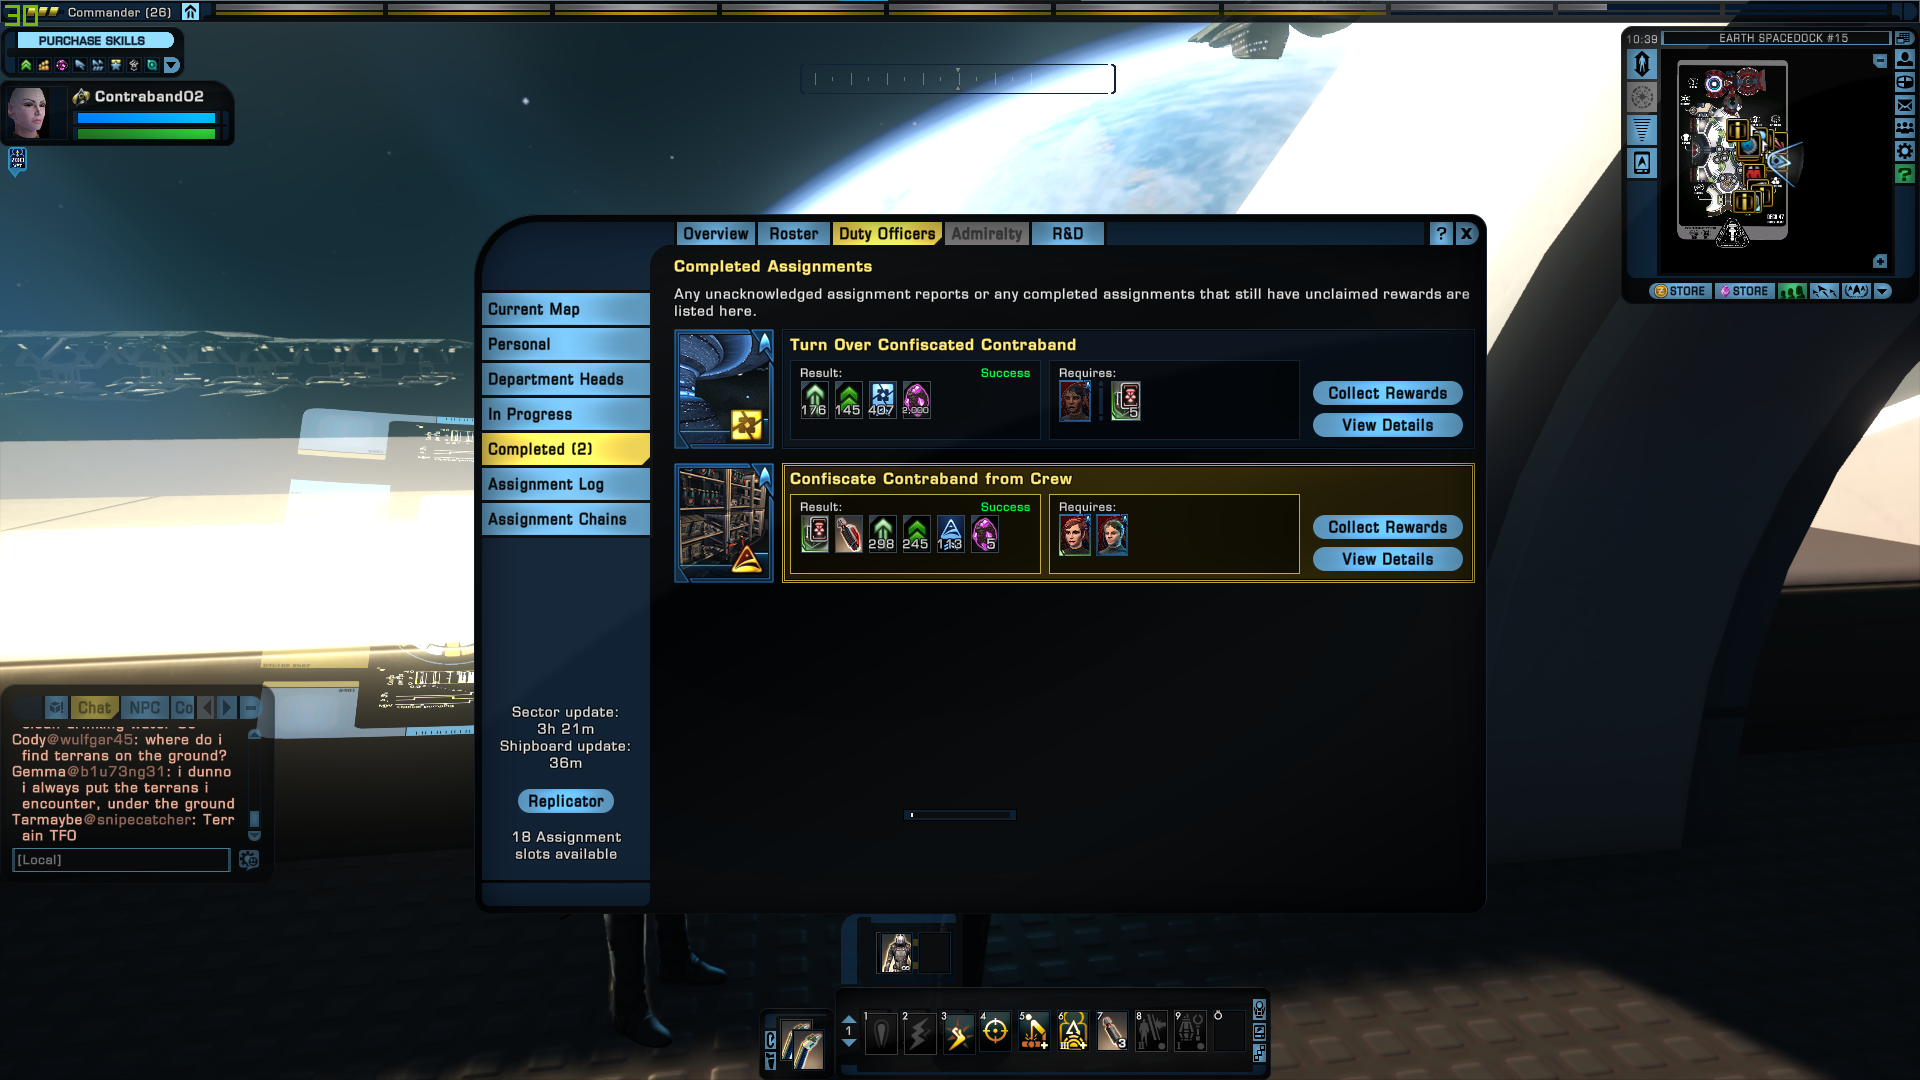
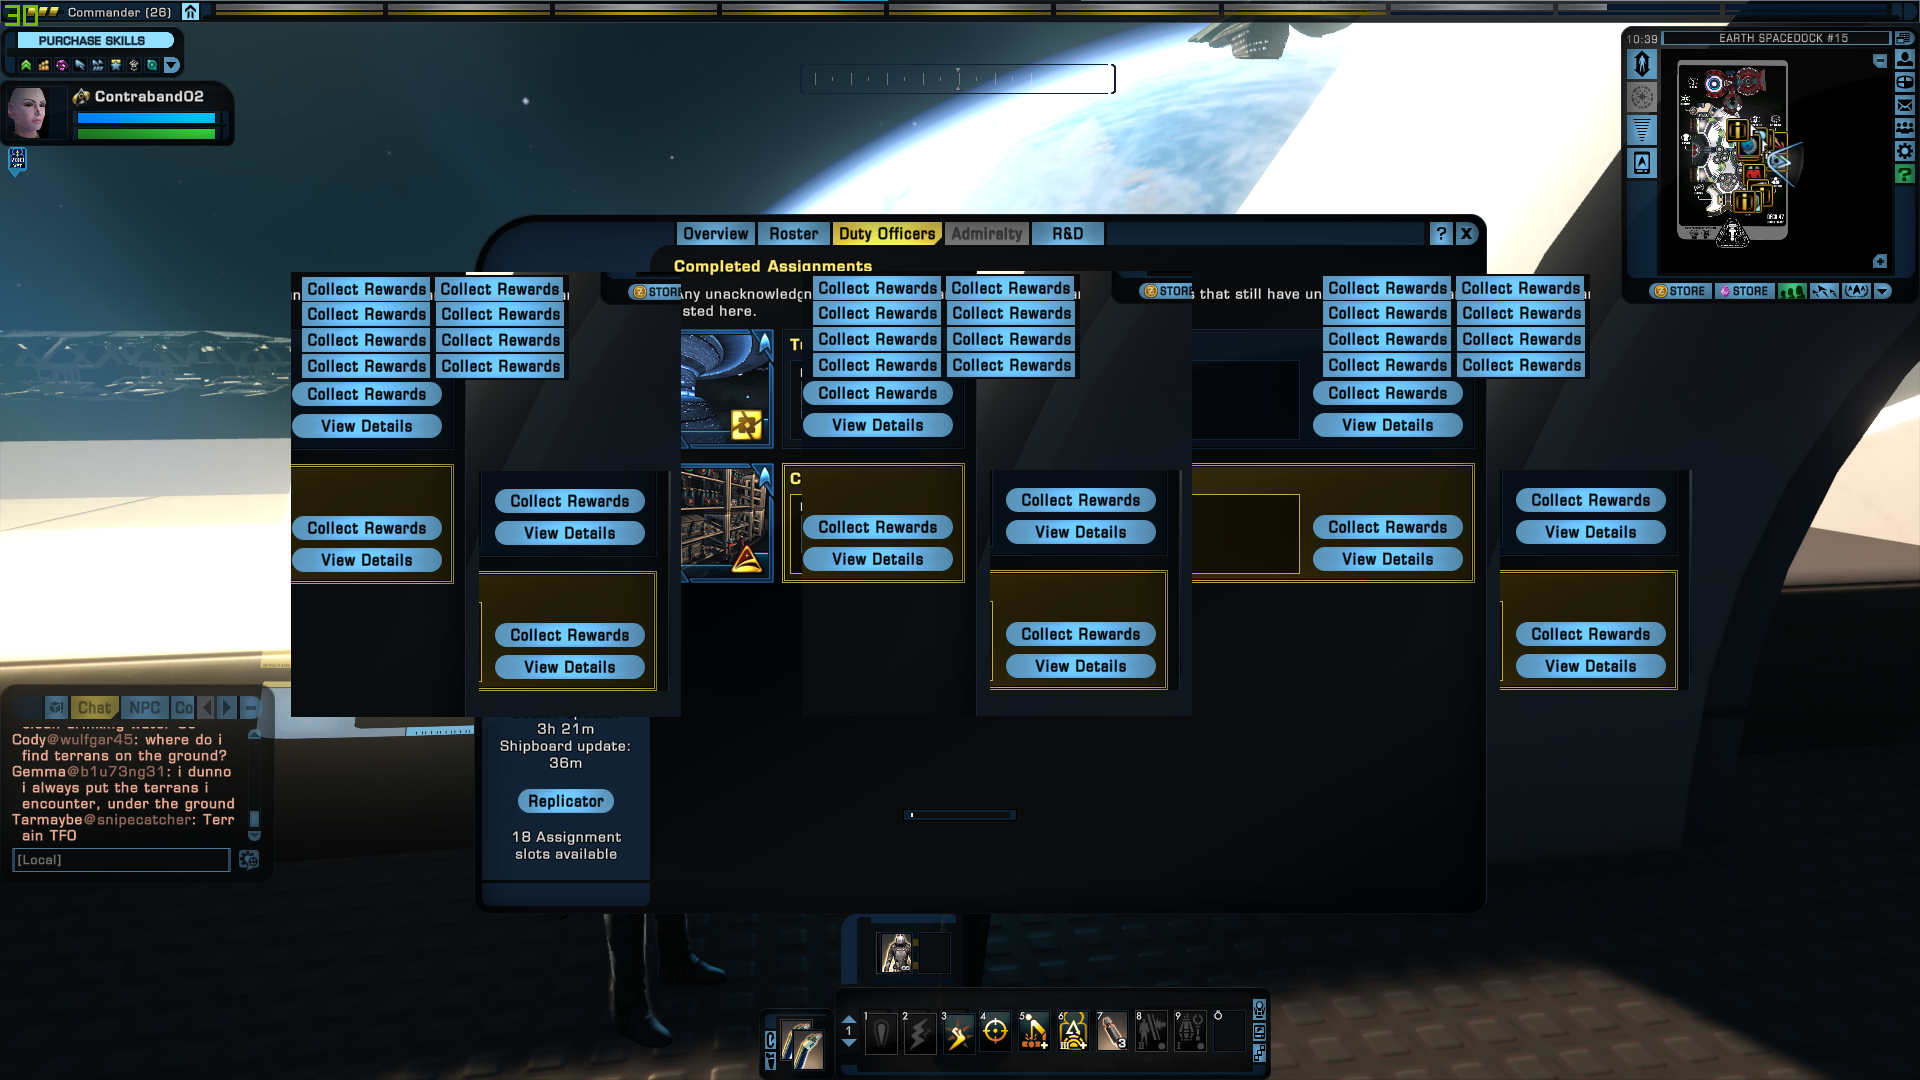
added auto scaling, further experiments

diff --git a/AutoFarmer/AutoFarmerTests/AutoFarmerTests.cs b/AutoFarmer/AutoFarmerTests/AutoFarmerTests.cs
@@ -14,53 +14,52 @@ namespace AutoFarmerTests
 	[TestClass]
 	public class AutoFarmerTests
 	{
-		[TestMethod]
-		public void TestMethod1()
-		{
-			Config.FromJsonFile(@"C:\Users\toti9\Documents\GitHub\AutoFarmer\AutoFarmer\AutoFarmer\configs\config.json");
+		//[TestMethod]
+		//public void TestMethod1()
+		//{
+		//	Config.FromJsonFile(@"C:\Users\toti9\Documents\GitHub\AutoFarmer\AutoFarmer\AutoFarmer\configs\config.json");
 
-			MatchCondition c = new MatchCondition() { SearchRectangleName = "TestRectangle1", TemplateName = "TestTemplate1" };
+		//	MatchCondition c = new MatchCondition() { SearchRectangleName = "TestRectangle1", TemplateName = "TestTemplate1", MaximumOccurrence = 2 };
 
-			//var sr = new SearchRectangle() { X = 210, Y = 712, W = 28, H = 14 };// 392 ~ 3.5 = 232.24kk
-			//var sr = new SearchRectangle() { X = 210, Y = 712, W = 280, H = 140 };// 39200 ~ 246= 330.42kk
 			var sr = new SearchRectangle() { X = 10, Y = 10, W = 100, H = 100 };// 39200 ~ 246= 330.42kk
+		//	//var sr = new SearchRectangle() { X = 210, Y = 712, W = 280, H = 140 };// 39200 ~ 246= 330.42kk
+		//	var sr = new SearchRectangle() { X = 1325, Y = 383, W = 100, H = 20 };// 39200 ~ 246= 330.42kk
 
-			sr.Init();
 
-			var srs = new Dictionary<string, SearchRectangle> { { "TestRectangle1", sr } };
+		//	var srs = new Dictionary<string, SearchRectangle> { { "TestRectangle1", sr } };
 
 			ImageMatchFinder.Instance = JsonConvert.DeserializeObject<ImageMatchFinder>(File.ReadAllText(Config.Instance.ImageMatchFinderConfigPath));
 
-			var t = new ImageMatchTemplate() { Name = "TestTemplate1", Bitmap = ImageFactory.ConvertAndScaleBitmap(Properties.Resources.characterSelector1Source), SearchRectangles = srs };
-			var ts = new List<ImageMatchTemplate> { t };
+		//	var t = new ImageMatchTemplate() { Name = "TestTemplate1", Bitmap = ImageFactory.ConvertAndScaleBitmap(Properties.Resources.assignmentsCompleted), SearchRectangles = srs };
+		//	var ts = new List<ImageMatchTemplate> { t };
 
-			ImageMatchFinder.Instance.Templates = ts;
+		//	ImageMatchFinder.Instance.Templates = ts;
 
-			var points = ImageMatchFinder.FindClickPointForTemplate(c, ImageFactory.ConvertAndScaleBitmap(Properties.Resources.characterSelector1Source, ImageMatchFinder.Instance.Scale), 0.98f);
+		//	var points = ImageMatchFinder.FindClickPointForTemplate(c, ImageFactory.ConvertAndScaleBitmap(Properties.Resources.assignmentsCompleted), 0.99f);
 
-			var expectedPoint = new SerializablePoint() { X = 480, Y = 843 };
+		//	var expectedPoint = new SerializablePoint() { X = 480, Y = 843 };
 
-			Assert.AreEqual(1, points.Count);
-			Assert.AreEqual(expectedPoint.X, points[0].X, 3);
-			Assert.AreEqual(expectedPoint.Y, points[0].Y, 3);
-		}
+		//	Assert.AreEqual(2, points.Count);
+		//	Assert.AreEqual(expectedPoint.X, points[0].X, 3);
+		//	Assert.AreEqual(expectedPoint.Y, points[0].Y, 3);
+		//}
 
 		[TestMethod]
 		public void TestMethod2v1()
 		{
-			TestMethod2Core(0.98f, "TestTemplate2v1", "TestRectangle2v1", NamedSearchArea.Right);
+			TestMethod2Core(0.99f, "TestTemplate2v1", "TestRectangle2v1", NamedSearchArea.Right);
 		}
 
 		[TestMethod]
 		public void TestMethod2v2()
 		{
-			TestMethod2Core(0.98f, "TestTemplate2v2", "TestRectangle2v2", NamedSearchArea.Left);
+			TestMethod2Core(0.99f, "TestTemplate2v2", "TestRectangle2v2", NamedSearchArea.Left);
 		}
 
 		[TestMethod]
 		public void TestMethod2v5()
 		{
-			TestMethod2Core(0.98f, "TestTemplate2v5", "TestRectangle2v5");
+			TestMethod2Core(0.99f, "TestTemplate2v5", "TestRectangle2v5");
 		}
 
 		private void TestMethod2Core(float similiarityThreshold, string templateName, string searchRectangleName, params NamedSearchArea[] namedSearchAreas)
@@ -69,9 +68,10 @@ namespace AutoFarmerTests
 
 			Dictionary<MatchOrderBy, MatchOrderLike> o = new Dictionary<MatchOrderBy, MatchOrderLike>() { { MatchOrderBy.Y, MatchOrderLike.Descending } };
 
-			MatchCondition c = new MatchCondition() { SearchRectangleName = searchRectangleName, TemplateName = templateName, MaximumOccurrence = 2, OrderBy = o };
+			MatchCondition c = new MatchCondition() { SearchRectangleName = searchRectangleName, TemplateName = templateName, MaximumOccurrence = 4, OrderBy = o };
 
-			var sr = new SearchRectangle() { X = 1322, Y = 383, W = 132, H = 20, NamedSearchAreas = namedSearchAreas }; // 2640 ~ 21.1 = 259.44kk
+			var sr = new SearchRectangle() { X = 1312, Y = 271, W = 390, H = 445, NamedSearchAreas = namedSearchAreas };
+			
 			sr.Init();
 
 			var srs = new Dictionary<string, SearchRectangle> { { searchRectangleName, sr } };
@@ -85,7 +85,7 @@ namespace AutoFarmerTests
 
 			Stopwatch stopwatch = new Stopwatch();
 			stopwatch.Start();
-			var points = ImageMatchFinder.FindClickPointForTemplate(c, ImageFactory.ConvertAndScaleBitmap(Properties.Resources.assignmentsCompleted, ImageMatchFinder.Instance.Scale), similiarityThreshold);
+			var points = ImageMatchFinder.FindClickPointForTemplate(c, ImageFactory.ConvertAndScaleBitmap(Properties.Resources.assignmentsCompleted), similiarityThreshold);
 			stopwatch.Stop();
 
 			Console.WriteLine($"Elapsed: {stopwatch.ElapsedMilliseconds}");
@@ -94,10 +94,10 @@ namespace AutoFarmerTests
 			var expectedPoint2 = new SerializablePoint() { X = 1388, Y = 527 };
 
 			Assert.AreEqual(2, points.Count);
-			Assert.AreEqual(expectedPoint1.X, points[1].X, 2 / ImageMatchFinder.Instance.Scale);
-			Assert.AreEqual(expectedPoint1.Y, points[1].Y, 2 / ImageMatchFinder.Instance.Scale);
-			Assert.AreEqual(expectedPoint2.X, points[0].X, 2 / ImageMatchFinder.Instance.Scale);
-			Assert.AreEqual(expectedPoint2.Y, points[0].Y, 2 / ImageMatchFinder.Instance.Scale);
+			Assert.AreEqual(expectedPoint1.X, points[1].X, 5);
+			Assert.AreEqual(expectedPoint1.Y, points[1].Y, 5);
+			Assert.AreEqual(expectedPoint2.X, points[0].X, 5);
+			Assert.AreEqual(expectedPoint2.Y, points[0].Y, 5);
 		}
 
 		[TestMethod]

diff --git a/AutoFarmer/AutoFarmer/Models/ImageMatching/ImageMatchFinder.cs b/AutoFarmer/AutoFarmer/Models/ImageMatching/ImageMatchFinder.cs
@@ -1,13 +1,11 @@
 using AForge.Imaging;
 using AutoFarmer.Models.GraphNamespace;
 using Newtonsoft.Json;
-using System;
 using System.Collections.Generic;
 using System.Drawing;
 using System.Drawing.Imaging;
 using System.IO;
 using System.Linq;
-using System.Text.RegularExpressions;
 
 namespace AutoFarmer.Models.ImageMatching
 {
@@ -15,7 +13,9 @@ namespace AutoFarmer.Models.ImageMatching
 	{
 		private static readonly PerformanceMonitor _performanceMonitor = new PerformanceMonitor();
 
-		public double Scale { get; set; }
+		public int MaximumSearchRectangleSizeForUnscaledSearch { get; set; }
+
+		public float SimiliarityThresholdCorrectionOnScaling { get; set; }
 
 		public float DefaultMaximumSimiliarityThreshold { get; set; }
 
@@ -37,9 +37,9 @@ namespace AutoFarmer.Models.ImageMatching
 			}
 		}
 
-		public static List<SerializablePoint> FindClickPointForTemplate(MatchCondition condition, Bitmap scaledSource, float similiarityThreshold)
+		public static List<SerializablePoint> FindClickPointForTemplate(MatchCondition condition, Bitmap source, float similiarityThreshold)
 		{
-			var matchResult = CalculateMatches(scaledSource, condition, similiarityThreshold);
+			var matchResult = CalculateMatches(source, condition, similiarityThreshold);
 
 			Logger.GraphicalLog(matchResult, condition.TemplateName, condition.SearchRectangleName);
 
@@ -56,12 +56,18 @@ namespace AutoFarmer.Models.ImageMatching
 			return OrderResults(matchResult.Matches.Select(m => m.ClickPoint), condition.OrderBy);
 		}
 
-		private static ImageMatchResult CalculateMatches(Bitmap scaledSource, MatchCondition condition, float similiarityThreshold)
+		private static ImageMatchResult CalculateMatches(Bitmap source, MatchCondition condition, float similiarityThreshold)
 		{
-			var template = Instance.Templates.First(t => t.Name == condition.TemplateName);
-			var scaledTemplate = ImageFactory.ConvertAndScaleBitmap(template.Bitmap, Instance.Scale);
+			var template = Instance.Templates.Single(t => t.Name == condition.TemplateName);
 			var searchRectangle = template.SearchRectangles[condition.SearchRectangleName];
-			var scaledSearchRectangle = searchRectangle.Scale(Instance.Scale);
+
+			var scale = searchRectangle.SizeInSquarePixel > Instance.MaximumSearchRectangleSizeForUnscaledSearch ? 0.5 : 1;
+			var correctedSimiliarityThreshold = scale == 0.5 ? similiarityThreshold - Instance.SimiliarityThresholdCorrectionOnScaling : similiarityThreshold;
+
+			var scaledSource = ImageFactory.ConvertAndScaleBitmap(source, scale);
+
+			var scaledTemplate = ImageFactory.ConvertAndScaleBitmap(template.Bitmap, scale);
+			var scaledSearchRectangle = searchRectangle.Scale(scale);
 			var scaledSearchImage = CropTemplateImage(scaledTemplate, scaledSearchRectangle);
 
 			var result = new ImageMatchResult()
@@ -76,7 +82,7 @@ namespace AutoFarmer.Models.ImageMatching
 
 			foreach (var searchArea in result.SearchAreas)
 			{
-				result.Matches.AddRange(CollectMatches(scaledSource, scaledSearchImage, scaledSearchRectangle.RelativeClickPoint, similiarityThreshold, condition.SearchRectangleName, condition.TemplateName, searchArea));
+				result.Matches.AddRange(CollectMatches(scaledSource, scaledSearchImage, scaledSearchRectangle.RelativeClickPoint, correctedSimiliarityThreshold, condition.SearchRectangleName, condition.TemplateName, scale, searchArea));
 
 				if (result.Matches.Count > condition.MaximumOccurrence && !(Config.Instance.GraphicalLogging && Config.Instance.FileLogging)) break;
 			}
@@ -85,7 +91,7 @@ namespace AutoFarmer.Models.ImageMatching
 			{
 				Logger.Log($"Search in given search areas not resulted minimum {condition.MinimumOccurrence} matches. Searching in full image!");
 
-				result.Matches = CollectMatches(scaledSource, scaledSearchImage, scaledSearchRectangle.RelativeClickPoint, similiarityThreshold, condition.SearchRectangleName, condition.TemplateName);
+				result.Matches = CollectMatches(scaledSource, scaledSearchImage, scaledSearchRectangle.RelativeClickPoint, correctedSimiliarityThreshold, condition.SearchRectangleName, condition.TemplateName, scale);
 			}
 
 			_performanceMonitor.Stop();
@@ -95,16 +101,16 @@ namespace AutoFarmer.Models.ImageMatching
 			return result;
 		}
 
-		private static List<ImageMatch> CollectMatches(Bitmap scaledSource, Bitmap scaledSearchImage, SerializableSize scaledRelativeClickPoint, float similiarityThreshold, string searchRectangleName, string templateName, SerializableRectangle area = null)
+		private static List<ImageMatch> CollectMatches(Bitmap scaledSource, Bitmap scaledSearchImage, SerializableSize scaledRelativeClickPoint, float similiarityThreshold, string searchRectangleName, string templateName, double scale, SerializableRectangle area = null)
 		{
 			ExhaustiveTemplateMatching matching = new ExhaustiveTemplateMatching(similiarityThreshold);
 
 			var findResult = area is null ? matching.ProcessImage(scaledSource, scaledSearchImage) : matching.ProcessImage(scaledSource, scaledSearchImage, (Rectangle)area);
 
 			var result = findResult.Select(tm =>
-				new ImageMatch((SerializablePoint)tm.Rectangle.Location + scaledRelativeClickPoint, (SerializableRectangle)tm.Rectangle, 1 / Instance.Scale)).ToList();
+				new ImageMatch((SerializablePoint)tm.Rectangle.Location + scaledRelativeClickPoint, (SerializableRectangle)tm.Rectangle, 1 / scale)).ToList();
 
-			result.ForEach(m => Logger.Log($"Match found for {searchRectangleName} of {templateName} {(area is null ? "" : $"in {area} search area") } at {m.ClickPoint}. At search time: {_performanceMonitor.Elapse}"));
+			result.ForEach(m => Logger.Log($"Match found for {searchRectangleName} of {templateName}{(area is null ? "" : $" in {area} search area") } at {m.ClickPoint} with {scale} scale. At search time: {_performanceMonitor.Elapse}"));
 
 			return result;
 		}

diff --git a/AutoFarmer/AutoFarmerTests/Properties/Resources.Designer.cs b/AutoFarmer/AutoFarmerTests/Properties/Resources.Designer.cs
@@ -73,16 +73,6 @@ namespace AutoFarmerTests.Properties {
         /// <summary>
         ///   Looks up a localized resource of type System.Drawing.Bitmap.
         /// </summary>
-        internal static System.Drawing.Bitmap characterSelector1 {
-            get {
-                object obj = ResourceManager.GetObject("characterSelector1", resourceCulture);
-                return ((System.Drawing.Bitmap)(obj));
-            }
-        }
-        
-        /// <summary>
-        ///   Looks up a localized resource of type System.Drawing.Bitmap.
-        /// </summary>
         internal static System.Drawing.Bitmap characterSelector1Source {
             get {
                 object obj = ResourceManager.GetObject("characterSelector1Source", resourceCulture);

diff --git a/AutoFarmer/AutoFarmer/Models/ImageMatching/ImageFactory.cs b/AutoFarmer/AutoFarmer/Models/ImageMatching/ImageFactory.cs
@@ -5,7 +5,7 @@ namespace AutoFarmer.Models.ImageMatching
 {
 	public static class ImageFactory
 	{
-		public static Bitmap CreateScreenshot(double scale = 1)
+		public static Bitmap CreateScreenshot()
 		{
 			var bmp = new Bitmap(Config.Instance.ScreenSize.W, Config.Instance.ScreenSize.H, PixelFormat.Format24bppRgb);
 
@@ -14,7 +14,7 @@ namespace AutoFarmer.Models.ImageMatching
 				g.CopyFromScreen(0, 0, 0, 0, (Size)Config.Instance.ScreenSize, CopyPixelOperation.SourceCopy);
 			}
 
-			return ConvertAndScaleBitmap(bmp, scale);
+			return bmp;
 		}
 
 		public static Bitmap ConvertAndScaleBitmap(Bitmap original, double scale = 1)

diff --git a/AutoFarmer/AutoFarmer/Models/Graph/MatchCondition.cs b/AutoFarmer/AutoFarmer/Models/Graph/MatchCondition.cs
@@ -69,9 +69,9 @@ namespace AutoFarmer.Models.GraphNamespace
 					{
 						MouseSafetyMeasures.CheckForIntentionalEmergencyStop();
 
-						var scaledSourceImage = ImageFactory.CreateScreenshot(ImageMatchFinder.Instance.Scale);
+						var sourceImage = ImageFactory.CreateScreenshot();
 
-						actionPoints = ImageMatchFinder.FindClickPointForTemplate(this, scaledSourceImage, current);
+						actionPoints = ImageMatchFinder.FindClickPointForTemplate(this, sourceImage, current);
 
 						MouseSafetyMeasures.CheckForIntentionalEmergencyStop();
 

diff --git a/AutoFarmer/AutoFarmer/Models/ImageMatching/SearchRectangle.cs b/AutoFarmer/AutoFarmer/Models/ImageMatching/SearchRectangle.cs
@@ -16,6 +16,11 @@ namespace AutoFarmer.Models.ImageMatching
 
 		public int H { get; set; }
 
+		public int SizeInSquarePixel
+		{
+			get { return W * H; }
+		}
+
 		public SerializablePoint ClickPoint { get; set; }
 
 		public List<SerializableRectangle> SearchAreas { get; set; } = new List<SerializableRectangle>();
